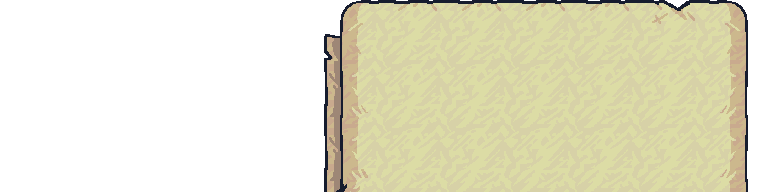
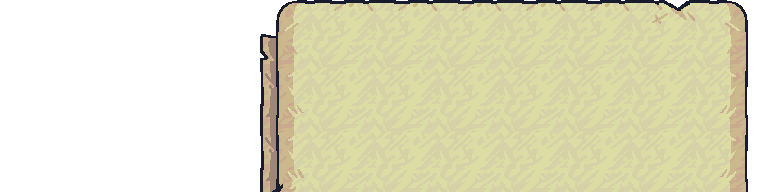
titles

Changed region(s): [[0.3125, 0.0, 0.5, 1.0]]

diff --git a/src/components/PlayerPanel.tsx b/src/components/PlayerPanel.tsx
@@ -121,6 +121,17 @@ const getAvatarOffset = (clanId: string, charClass: PlayerClass) => {
     return String(offset).padStart(2, '0');
 }
 
+const getAvatarWidth = (charClass: PlayerClass) => {
+    switch (charClass) {
+        case "Warrior":
+            return "45%";
+        default:
+            return "50%";
+    }
+}
+
+const chip = "inline-flex items-center px-2.5 py-0.5 rounded-lg text-xs font-semibold tracking-wide text-white relative overflow-hidden";
+
 export default function PlayerPanel({ player, location, locations, currentDay, clan }: PlayerPanelProps) {
     const { pendingAction, setPendingAction } = usePendingAction(player.playerId, currentDay);
     const [feedback, setFeedback] = useState<string | null>(null);
@@ -142,6 +153,27 @@ export default function PlayerPanel({ player, location, locations, currentDay, c
         return feedback || pendingAction;
     };
 
+    const sortedTitles = player.character.titles.sort((a, b) => b.rank - a.rank);
+    const topTitle = sortedTitles.at(0) ?? {
+        "id": "new_guy",
+        "title": "The Trainee",
+        "requirement": {
+            "field": "meta.gatherFoodCount",
+            "operator": ">=",
+            "value": 0
+        },
+        "bonus": {
+            "food": 0,
+            "wood": 0,
+            "gold": 0,
+            "xp": 0,
+            "fortune": 0
+        },
+        "rank": 1,
+        "color": "#006c4b"
+    };
+    const secondTitle = sortedTitles.length > 1 ? sortedTitles.at(1) : null;
+
     const log = player.history.at(-1);
     const charClass = player.character.class;
     const runPng = runPngMap[charClass as keyof typeof runPngMap];
@@ -157,22 +189,23 @@ export default function PlayerPanel({ player, location, locations, currentDay, c
                             <p className="text-center">{clan.name}</p>
                         </div>
                     </div>
-                    <div className="relative text-lg">
+                    <div className="relative">
                         <img src={`/assets/Player/info-mid.png`} alt="OpenQuests Hero Info" className="w-full h[50%]" />
-                        <div className='absolute pt-3 top-0 left-1/2 w-[40%] md:text-xl'>
-                            <p className="w-full text-center no-wrap overflow-hidden text-ellipsis">{player.character.name}</p>
-                            <div className='flex items-center justify-between'>
-                                <p>Lv. {player.character.level}</p>
-                                <div className="mb-1 bg-[url('/assets/Player/xp-bar.png')] bg-position-[center_center] bg-size-[100%_100%] w-[70%] leading-none h-[1lh] bg-no-repeat">
-                                    <img src={`/assets/Player/xp-fill.png`} alt="OpenQuests XP Bar" className="h-full ml-4" style={{ width: `${Math.max(Math.floor(player.character.xp / ((player.character.level + 2) * (player.character.level + 2)) * 69), 2)}%` }} />
+                        <div className='absolute pt-3 top-0 left-1/3 w-[65%] md:pl-6 md:pr-4 pl-4 pr-3'>
+                            <p className="w-full text-center no-wrap overflow-hidden text-ellipsis md:text-2xl text-xl">{player.character.name}</p>
+                            <div className='flex items-center justify-center text-base'>
+                                <p>[Lv.{player.character.level}] EXP</p>
+                                <div className="mb-1 bg-[url('/assets/Player/xp-bar.png')] bg-position-[center_center] bg-size-[100%_100%] w-[60%] leading-none h-[1lh] bg-no-repeat">
+                                    <img src={`/assets/Player/xp-fill.png`} alt="OpenQuests XP Bar" className="h-full ml-5" style={{ width: `${Math.max(Math.floor(player.character.xp / ((player.character.level + 2) * (player.character.level + 2)) * 69), 2)}%` }} />
                                 </div>
                             </div>
-                            <div>
-                                Title
+                            <div className="flex items-center justify-evenly text-base pt-1">
+                                <span className={`${chip} shadow-md shadow-black/50 ring-1`} style={{ backgroundColor: topTitle.color, '--tw-ring-color': topTitle.color + '55' } as React.CSSProperties}>{topTitle.title}</span>
+                                {secondTitle && <span className={`${chip} shadow-md shadow-black/50 ring-1`} style={{ backgroundColor: secondTitle.color, '--tw-ring-color': secondTitle.color + '55' } as React.CSSProperties}>{secondTitle.title}</span>}
                             </div>
                         </div>
                     </div>
-                    <img src={`/assets/UI Elements/UI Elements/Human Avatars/Avatars_${getAvatarOffset(clan.id, charClass)}.png`} alt="OpenQuests Hero" className="w-[45%] absolute right-1/2 top-0" />
+                    <img src={`/assets/UI Elements/UI Elements/Human Avatars/Avatars_${getAvatarOffset(clan.id, charClass)}.png`} alt="OpenQuests Hero" className="absolute right-7/12 top-0" style={{ width: getAvatarWidth(charClass) }} />
                 </div>
                 <img src={`/assets/Player/backstory-top.png`} alt="OpenQuests Hero Info" className="w-full" />
                 <div className="px-8 bg-[url('/assets/Player/backstory-mid.png')] bg-position-[center_top] bg-size-[100%_auto] bg-repeat-y">
@@ -214,6 +247,6 @@ export default function PlayerPanel({ player, location, locations, currentDay, c
                     <img src={`/assets/Log/log-player-bot.png`} alt="OpenQuests Log" className="w-full" />
                 </div>
             </div>
-        </section>
+        </section >
     );
 }
